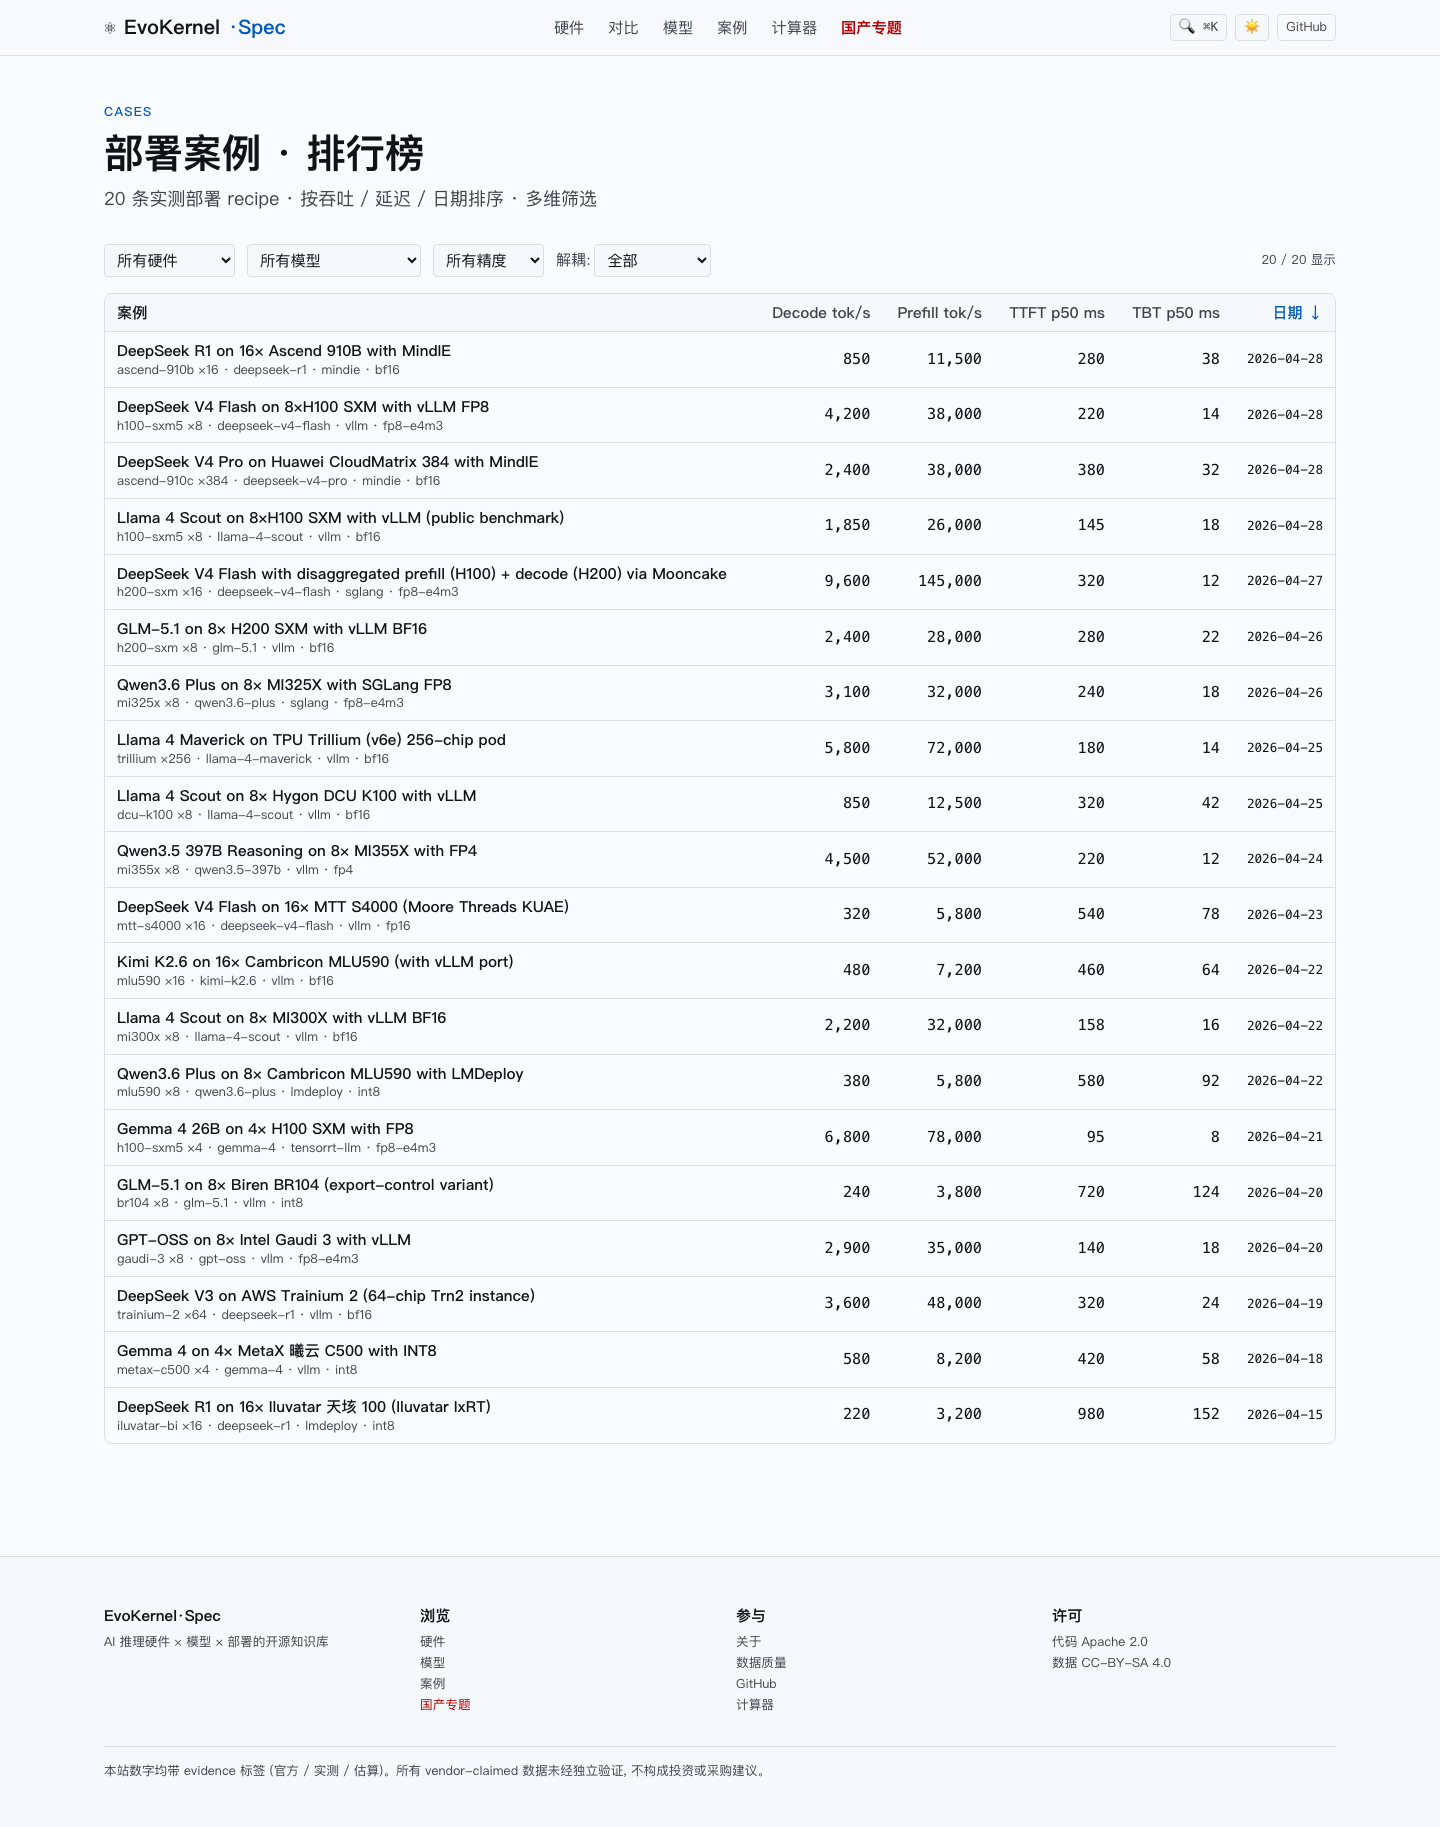
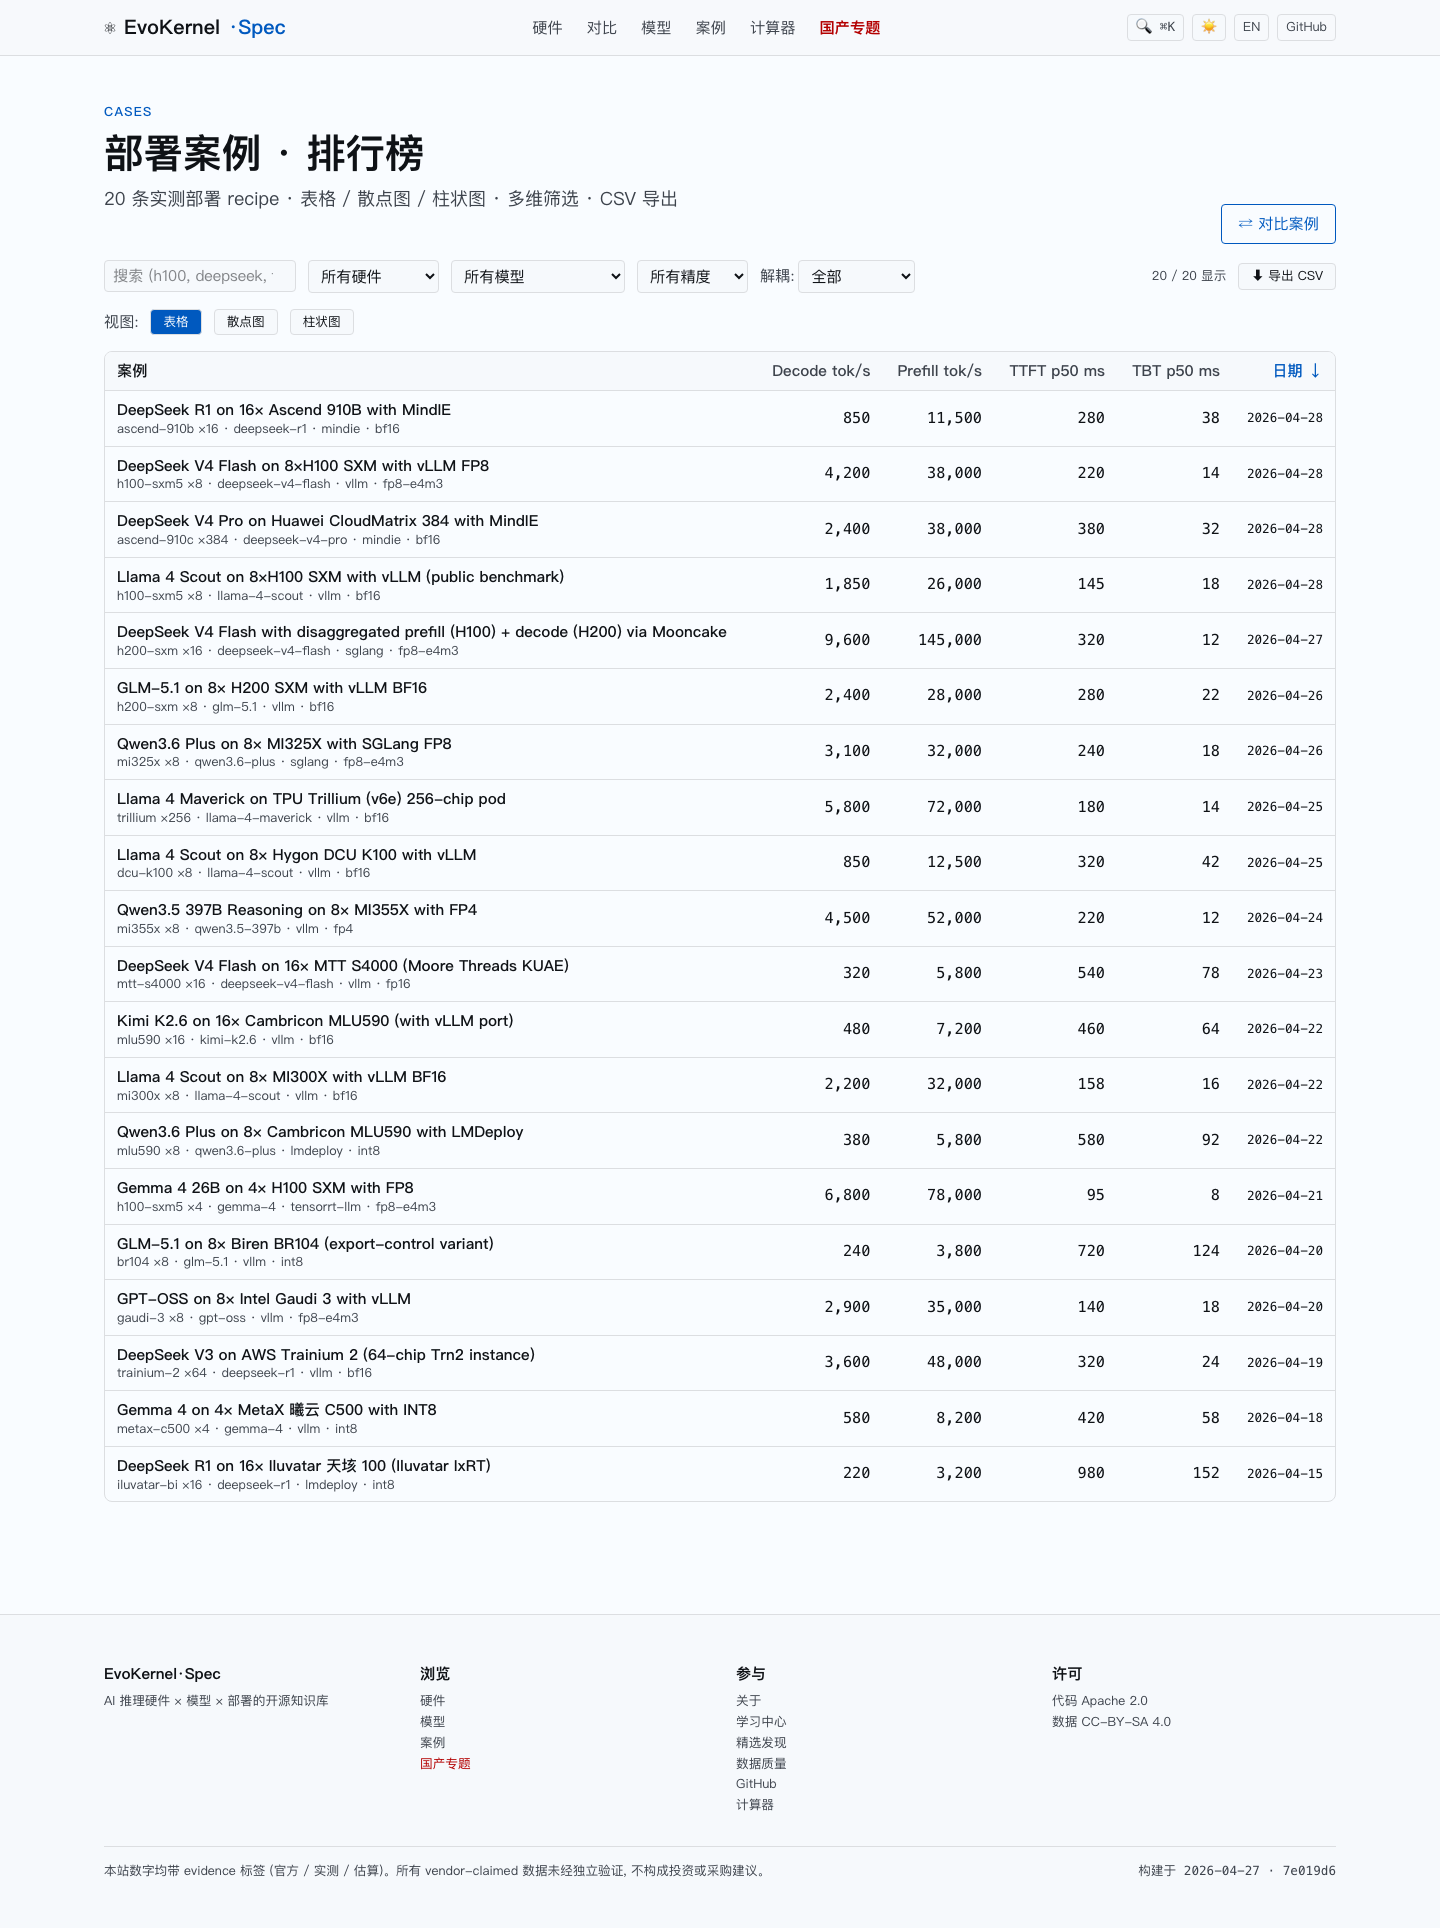
feat: /showcase page with 8 auto-computed insights (best decode/card, lowest $/M tokens, efficiency leader/laggard, most-tested hardware, biggest CN software-stack gap, largest gen-over-gen jump, most portable model, scale-up domain leader); 14 docs screenshots; closes the editorial value loop

diff --git a/apps/web/e2e/screenshots.spec.ts b/apps/web/e2e/screenshots.spec.ts
@@ -78,4 +78,25 @@ test.describe('Documentation screenshots', () => {
     await page.waitForLoadState('networkidle');
     await page.screenshot({ path: `${OUT}/quality.png`, fullPage: true });
   });
+
+  test('showcase', async ({ page }) => {
+    await page.goto('/showcase/');
+    await page.waitForLoadState('networkidle');
+    await page.screenshot({ path: `${OUT}/showcase.png`, fullPage: true });
+  });
+
+  test('case-compare', async ({ page }) => {
+    await page.goto('/cases/compare/?ids=case-dsv4pro-cm384-mindie-001,case-llama4-scout-h100x8-vllm-001,case-dsr1-asc910bx16-mindie-001');
+    await page.waitForLoadState('networkidle');
+    await page.waitForTimeout(1000);
+    await page.screenshot({ path: `${OUT}/case-compare.png`, fullPage: true });
+  });
+
+  test('cases-scatter', async ({ page }) => {
+    await page.goto('/cases/');
+    await page.waitForSelector('select', { state: 'visible' });
+    await page.getByRole('button', { name: '散点图', exact: true }).click();
+    await page.waitForTimeout(1200);
+    await page.screenshot({ path: `${OUT}/cases-scatter.png`, fullPage: true });
+  });
 });

diff --git a/.claude/ralph-loop.local.md b/.claude/ralph-loop.local.md
@@ -1,6 +1,6 @@
 ---
 active: true
-iteration: 19
+iteration: 20
 session_id: 
 max_iterations: 0
 completion_promise: null
